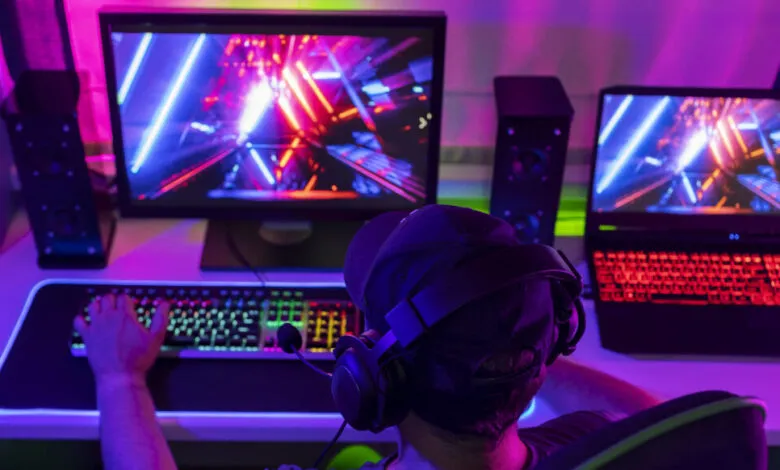
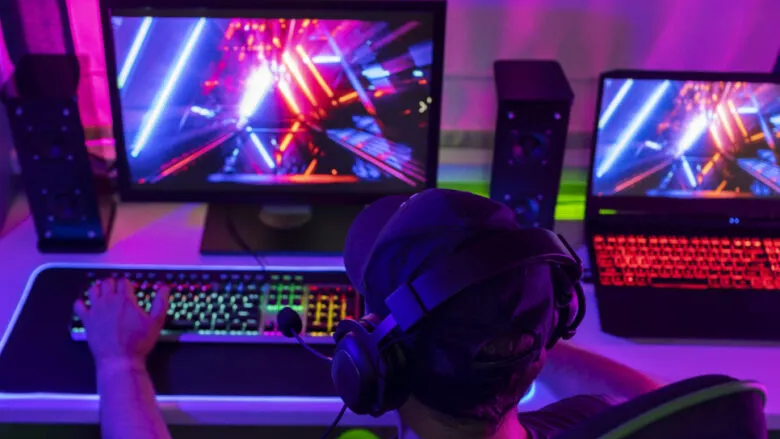
inicio con carrusel arreglado

diff --git a/pag web/main.html b/pag web/main.html
@@ -45,8 +45,10 @@
           <input class="form-control me-2" type="text" name="q" placeholder="Introduce tu búsqueda">
           <button class="btn btn-primary" type="submit">Buscar</button>
         </form>
-        <a class="navbar-nav nav-link dropdown-toggle ms-3 align-items-end" href="#" data-bs-toggle="dropdown" aria-expanded="false"><img src="img/header/user-logo-generic-white-alt.png" alt="Usuario" style="width: 60px;"></a>
-        
+        <a class="navbar-nav nav-link dropdown-toggle ms-3 align-items-end" href="#" data-bs-toggle="dropdown"
+          aria-expanded="false"><img src="img/header/user-logo-generic-white-alt.png" alt="Usuario"
+            style="width: 60px;"></a>
+
         <ul class="dropdown-menu dropdown-menu-end">
           <li><a class="dropdown-item" href="user_registro.html">Registro</a></li>
           <li><a class="dropdown-item" href="user_inicio_sesion.html">Iniciar Sesión</a></li>
@@ -65,40 +67,67 @@
       <button type="button" data-bs-target="#demo" data-bs-slide-to="2"></button>
     </div>
 
-    <!-- The slideshow/carousel -->
+    <!-- Primer Slider -->
     <div class="carousel-inner">
       <div class="carousel-item active">
-        <img src="img/main/gamer_stock.png" alt="Los Angeles" class="d-block w-100">
+        <img src="img/main/gamer_stock.png" alt="Inicio" class="d-block w-100">
+        <div class="orbitron carousel-caption d-flex flex-column justify-content-center h-100">
+          <h1 class="fw-bolder display-3 display-md-2 display-sm-5" style="text-shadow: 4px 1px 4px rgba(0,0,0,0.7);">
+            Bienvenido a Level-up Gamer</h1>
+          <p class="roboto fs-2 fs-md-4 fs-sm-6" style="text-shadow: 4px 1px 4px rgba(0,0,0,0.7);">Tu lugar para todo lo
+            relacionado con videojuegos</p>
+        </div>
       </div>
+      <!--Segundo Slider-->
       <div class="carousel-item">
-        <img src="img/main/gamer_stock.png" alt="Chicago" class="d-block w-100">
+        <img src="img/main/componentes.png" alt="Componentes" class="d-block w-100">
+        <div class="carousel-caption d-flex flex-column justify-content-center h-100">
+          <h1 class="orbitron fw-bolder display-3 display-md-2 display-sm-5" style="text-shadow: 4px 1px 4px rgba(0,0,0,1);">
+            Arma tu PC como un Pro
+          </h1>
+          <p class="fw-bolder roboto fs-2 fs-md-4 fs-sm-6" style="text-shadow: 4px 4px 4px rgb(0, 0, 0);">
+            Encuentra componentes de última generación
+          </p>
+        </div> 
       </div>
-      <div class="carousel-item">
-        <img src="img/main/gamer_stock.png" alt="New York" class="d-block w-100">
-      </div>
+        <!-- Tercer Slide -->
+  <div class="carousel-item">
+    <img src="img/main/ps_logo_stock.jpg" alt="Juegos" class="d-block w-100">
+    <div class="carousel-caption d-flex flex-column justify-content-center h-100">
+      <h1 class="orbitron fw-bolder display-3 display-md-2 display-sm-5" 
+          style="text-shadow: 4px 1px 4px rgba(0,0,0,0.7);">
+          Conéctate al mundo Gamer
+      </h1>
+      <p class="roboto fs-2 fs-md-4 fs-sm-6" 
+         style="text-shadow: 4px 1px 4px rgba(0,0,0,0.7);">
+         Comunidad, merch y más
+      </p>
     </div>
-
-    <!-- Left and right controls/icons -->
-    <button class="carousel-control-prev" type="button" data-bs-target="#demo" data-bs-slide="prev">
-      <span class="carousel-control-prev-icon"></span>
-    </button>
-    <button class="carousel-control-next" type="button" data-bs-target="#demo" data-bs-slide="next">
-      <span class="carousel-control-next-icon"></span>
-    </button>
   </div>
 
+         <!-- Primer Slider -->
 
-  <!-- Footer de ejemplo que quiza usemos de final lol-->
-  <footer class="py-3 my-4 bg-black orbitron ">
-    <ul class="nav justify-content-center border-bottom pb-3 mb-3">
-      <li class="nav-item"><a href="main.html" class="nav-link px-2 text-light">Inicio</a></li>
-      <li class="nav-item"><a href="#" class="nav-link px-2 text-light">Sample</a></li>
-      <li class="nav-item"><a href="#" class="nav-link px-2 text-light">Sample</a></li>
-      <li class="nav-item"><a href="#" class="nav-link px-2 text-light">Sample</a></li>
-      <li class="nav-item"><a href="#" class="nav-link px-2 text-light">Sample</a></li>
-    </ul>
-    <p class="text-center text-light">© 2025 Level-Up Gamer</p>
-  </footer>
+      <!-- Left and right controls/icons -->
+      <button class="carousel-control-prev" type="button" data-bs-target="#demo" data-bs-slide="prev">
+        <span class="carousel-control-prev-icon"></span>
+      </button>
+      <button class="carousel-control-next" type="button" data-bs-target="#demo" data-bs-slide="next">
+        <span class="carousel-control-next-icon"></span>
+      </button>
+    </div>
+
+
+    <!-- Footer de ejemplo que quiza usemos de final lol-->
+    <footer class="py-3 my-4 bg-black orbitron ">
+      <ul class="nav justify-content-center border-bottom pb-3 mb-3">
+        <li class="nav-item"><a href="main.html" class="nav-link px-2 text-light">Inicio</a></li>
+        <li class="nav-item"><a href="#" class="nav-link px-2 text-light">Sample</a></li>
+        <li class="nav-item"><a href="#" class="nav-link px-2 text-light">Sample</a></li>
+        <li class="nav-item"><a href="#" class="nav-link px-2 text-light">Sample</a></li>
+        <li class="nav-item"><a href="#" class="nav-link px-2 text-light">Sample</a></li>
+      </ul>
+      <p class="text-center text-light">© 2025 Level-Up Gamer</p>
+    </footer>
 </body>
 
 </html>

diff --git a/pag web/styles/fonts.css b/pag web/styles/fonts.css
@@ -1,5 +1,5 @@
 /* Roboto para el body */
-body {
+body .roboto {
   font-family: 'Roboto', sans-serif;
 }
 
